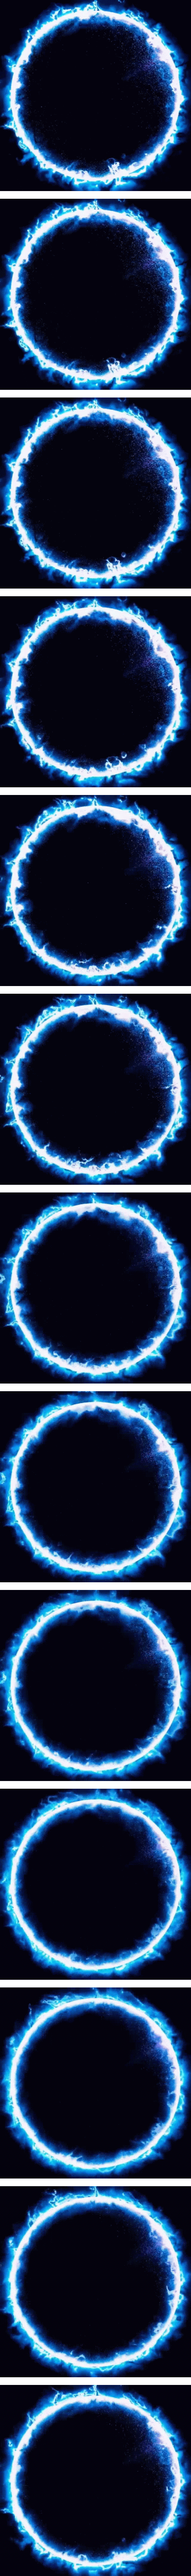
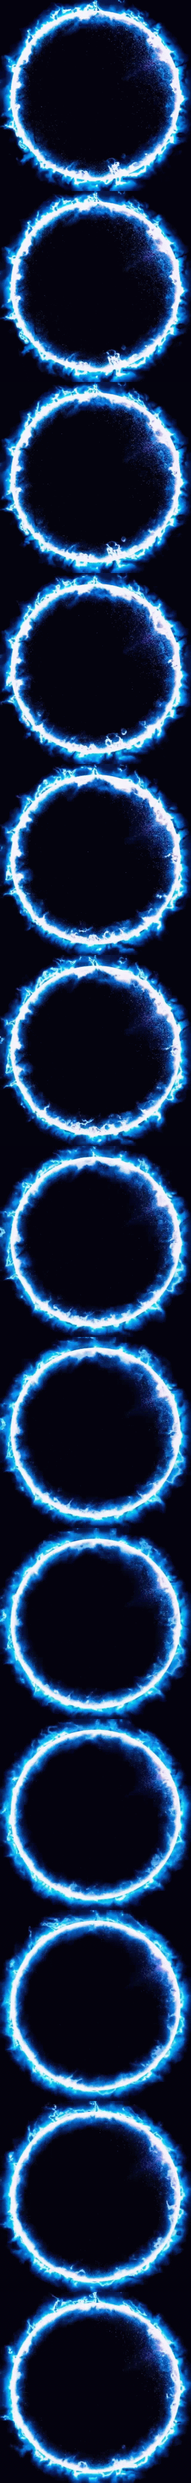
Flame circle

Changed region(s): [[0.0, 0.0, 1.0, 0.9985]]

diff --git a/java/src/main/java/org/kd/kickass/Scene2Karateka.java b/java/src/main/java/org/kd/kickass/Scene2Karateka.java
@@ -11,7 +11,7 @@ import org.kd.common.tricks.TravellingLogo;
 public class Scene2Karateka implements Screen {
 
     final static long START_FRAME = 3300;
-    private TravellingLogo logo, karatekas;
+    private TravellingLogo logo, wallpaper;
     private SpriteBatch batch;
     private AnimatedSpriteV karateka;
     @Override
@@ -25,8 +25,8 @@ public class Scene2Karateka implements Screen {
         karateka.scale(3.0f);
 
         var texture2 = new Texture("kickass/karateksa.jpg");
-        karatekas = new TravellingLogo(texture2, 1, 0, 3500, 990);
-        karatekas.spriteSpeed = 2f;
+        wallpaper = new TravellingLogo(texture2, 1, 0, 3500, 990);
+        wallpaper.spriteSpeed = 2f;
     }
 
     @Override
@@ -39,8 +39,8 @@ public class Scene2Karateka implements Screen {
         logo.draw(batch, 2 * 1700, 990);
         logo.spriteSpeed = 700f;
 
-        karatekas.draw(batch, 2 * 1700, 990);
-        karatekas.spriteSpeed = 700f;
+        wallpaper.draw(batch, 2 * 1700, 990);
+        wallpaper.spriteSpeed = 700f;
 
         karateka.draw(batch);
         batch.end();
@@ -49,7 +49,7 @@ public class Scene2Karateka implements Screen {
     private void update() {
         var delta = Gdx.graphics.getDeltaTime();
         logo.move(delta, 1700);
-        karatekas.move(delta/5f, 1700);
+        wallpaper.move(delta/5f, 1700);
 
         long limit = 565;
         if (getCurrentFrame() > limit) {

diff --git a/java/src/main/java/org/kd/kickass/Scene3.java b/java/src/main/java/org/kd/kickass/Scene3.java
@@ -4,20 +4,24 @@ import com.badlogic.gdx.Gdx;
 import com.badlogic.gdx.Screen;
 import com.badlogic.gdx.graphics.GL20;
 import com.badlogic.gdx.graphics.g2d.SpriteBatch;
-import org.kd.common.tricks.TravellingLogo;
+import org.kd.common.AnimatedSpriteV;
+import org.kd.common.Helper;
 
 public class Scene3 implements Screen {
 
-    final static long START_FRAME = 4100;
-    private TravellingLogo karatekas;
+    final static long START_FRAME = 3950;
+    private AnimatedSpriteV circle;
     private SpriteBatch batch;
 
     @Override
     public void show() {
+        System.out.println(Helper.countElapsedTime());
         batch = new SpriteBatch();
-        float X = Gdx.graphics.getWidth() / 2f;// - 250f/2f;
-        float Y = Gdx.graphics.getHeight() - 60;
+        float X = Gdx.graphics.getWidth() / 2f - 250f;
+        float Y = Gdx.graphics.getHeight() /2f - 250f;
 
+        circle = new AnimatedSpriteV("kickass/blueFireCircle.png", 13, 0.05f, Math.round(X)
+                , Math.round(Y));
     }
 
     @Override
@@ -25,6 +29,9 @@ public class Scene3 implements Screen {
         Gdx.gl.glClear(GL20.GL_COLOR_BUFFER_BIT);
         Gdx.gl.glClearColor(0, 0, 0, 1);
         update();
+        batch.begin();
+        circle.draw(batch);
+        batch.end();
     }
 
     private void update() {

diff --git a/java/src/main/java/org/kd/kickass/KickassDemo.java b/java/src/main/java/org/kd/kickass/KickassDemo.java
@@ -5,6 +5,7 @@ import com.badlogic.gdx.Gdx;
 import com.badlogic.gdx.Screen;
 import com.badlogic.gdx.audio.Music;
 import com.badlogic.gdx.backends.lwjgl.LwjglApplication;
+import org.kd.common.Globals;
 
 public class KickassDemo extends Game {
 
@@ -13,6 +14,7 @@ public class KickassDemo extends Game {
 
     @Override
     public void create() {
+        System.out.println(Globals.startTime);
 
         tune = Gdx.audio.newMusic(Gdx.files.internal("kickass/audio/PieceSzit2.mp3"));
         tune.setLooping(true);
